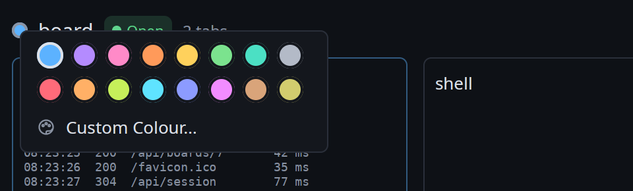
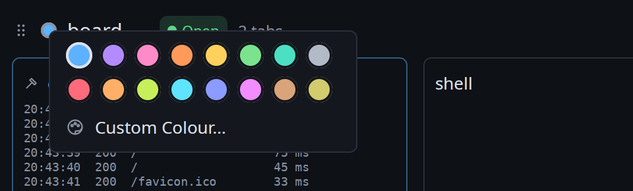
Fresh screenshots; Setup labels fit on one line
- Every screenshot retaken: the new bench icon and glyphs, the grip and
  status badges in Shed, Move to Bench, and the Setup panel's Starts after
  and Ready when.
- The Setup panel's label column is wider, so "Ready when" no longer wraps.
- The screenshot script clicks the colour dot where it now is, right of
  the grip.

diff --git a/crates/shed-app/src/setup_panel.rs b/crates/shed-app/src/setup_panel.rs
@@ -305,7 +305,7 @@ impl SetupPanel {
                 .flex()
                 .items_start()
                 .gap_2()
-                .child(div().w(px(70.0)).flex_none().text_color(hsla(ui.text_dim)).child(label.to_string()))
+                .child(div().w(px(88.0)).flex_none().text_color(hsla(ui.text_dim)).child(label.to_string()))
                 .child(content)
         };
         let running = pane.tool.as_ref().map(|t| t.display());
@@ -327,7 +327,7 @@ impl SetupPanel {
         let teardown = self.render_list(id, true, &pane.setup.teardown, ui, accent, cx);
 
         let wait = pane.setup.wait;
-        let mut options = div().flex().gap_3().pl(px(78.0));
+        let mut options = div().flex().gap_3().pl(px(96.0));
         if !pane.setup.startup.is_empty() {
             options = options.child(self.link(
                 format!("wait-{index}").into(),
@@ -344,12 +344,12 @@ impl SetupPanel {
             }));
         }
         let startup_hint = if pane.setup.startup.is_empty() {
-            Some(div().pl(px(78.0)).text_size(px(11.0)).text_color(hsla(ui.text_dim)).child("Empty: on load, what was running is restarted or typed, by the rack."))
+            Some(div().pl(px(96.0)).text_size(px(11.0)).text_color(hsla(ui.text_dim)).child("Empty: on load, what was running is restarted or typed, by the rack."))
         } else {
             None
         };
         let teardown_hint = if pane.setup.teardown.is_empty() {
-            Some(div().pl(px(78.0)).text_size(px(11.0)).text_color(hsla(ui.text_dim)).child("Empty: closing the bench stops the running tool."))
+            Some(div().pl(px(96.0)).text_size(px(11.0)).text_color(hsla(ui.text_dim)).child("Empty: closing the bench stops the running tool."))
         } else {
             None
         };
